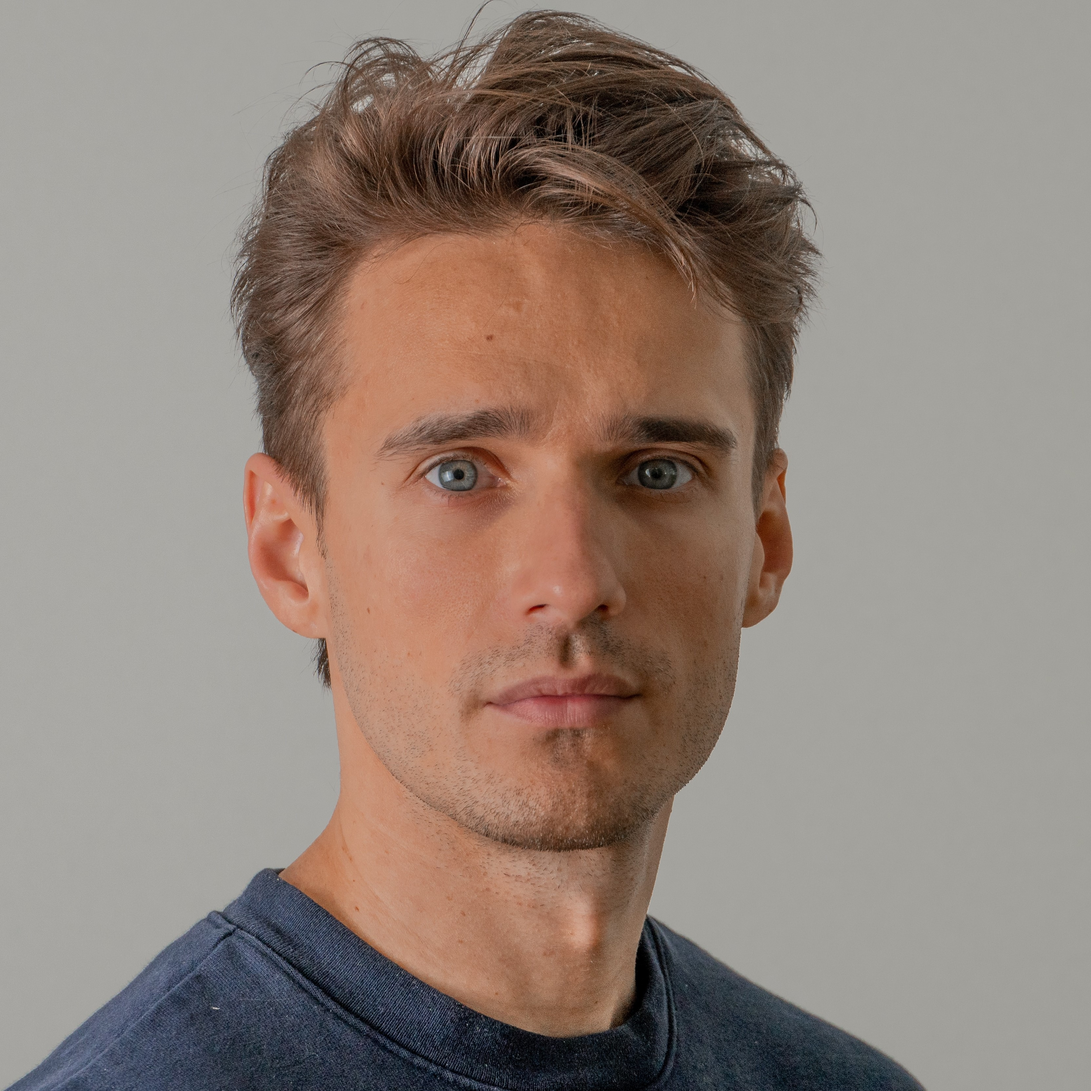
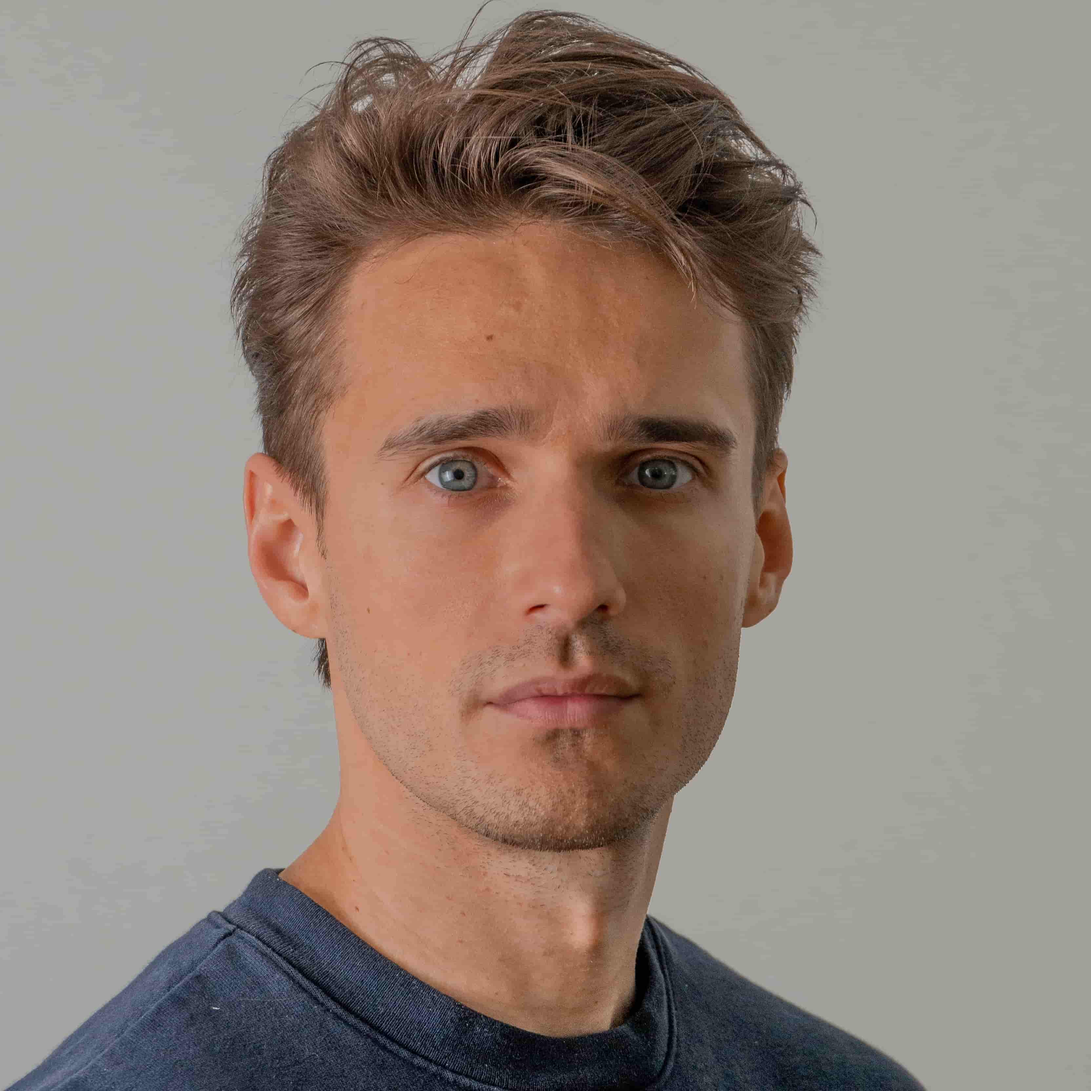
optimized images and add responsiveness

diff --git a/src/components/Header.jsx b/src/components/Header.jsx
@@ -2,14 +2,44 @@ import React from 'react';
 import '../styles/Header.scss';
 
 const Header = () => {
+  function showHideNavbar() {
+    const navLinksDisplay = document.getElementById('header__nav-links');
+    const iconMiddleLine = document.getElementById(
+      'header__hamburger-middle-line',
+    );
+    const iconTopLine = document.getElementById('header__hamburger-top-line');
+    const iconBottomLine = document.getElementById(
+      'header__hamburger-bottom-line',
+    );
+    if (navLinksDisplay.style.display === 'flex') {
+      navLinksDisplay.style.display = 'none';
+      iconMiddleLine.style.display = 'inline-block';
+      iconTopLine.classList.remove('header__icon-line-animate');
+      iconBottomLine.classList.remove('header__icon-bottom-line-animate');
+    } else {
+      navLinksDisplay.style.display = 'flex';
+      iconMiddleLine.style.display = 'none';
+      iconTopLine.classList.add('header__icon-line-animate');
+      iconBottomLine.classList.add('header__icon-bottom-line-animate');
+    }
+  }
+
   return (
     <div className="header sticky-top">
       <div className="container">
         <div className="d-md-flex justify-content-md-between align-item-center">
           <h1 className="header__logo" data-aos="zoom-in" data-aos-delay="0">
-            CompanyX
+            Meta solutions
           </h1>
-          <ul className="header__menu ">
+          {/* Haamburger Icon */}
+          <div className="header__hamburger-icon" onClick={showHideNavbar}>
+            <span id="header__hamburger-top-line"></span>
+            <span id="header__hamburger-middle-line"></span>
+            <span id="header__hamburger-bottom-line"></span>
+          </div>
+
+          {/* Menu Items  */}
+          <ul className="header__menu" id="header__nav-links">
             <li data-aos="fade-down" data-aos-delay="0">
               <a href="/">Home</a>
             </li>

diff --git a/src/components/Footer.jsx b/src/components/Footer.jsx
@@ -11,21 +11,23 @@ const Footer = () => {
       <div className="footer">
         <div className="container">
           <div className="row">
-            <div className="col-md-4">
+            {/* first column   */}
+            <div className="col-md-4 col-sm-6">
               <div className="footer__widget">
                 <h4>About Us</h4>
                 <p>
-                  Lorem ipsum dolor sit amet, consectetur adipisicing elit.
-                  Natus tenetur, nobis rerum quas.
+                  From concept to launch, we pride ourselves on delivering
+                  high-quality, reliable, and user-friendly solutions that
+                  exceed expectations.
                 </p>
                 <p>
-                  Lorem ipsum dolor sit amet, consectetur adipisicing elit.
-                  Quaerat et iusto facere a eligendi perferendis.
+                  Contact us today to learn more about how we can help take your
+                  business to the next level.
                 </p>
               </div>
             </div>
             {/* second column   */}
-            <div className="col-md-4">
+            <div className="col-md-4 col-sm-6">
               <div className="footer__widget">
                 <h4>Services</h4>
                 <ul>
@@ -45,11 +47,11 @@ const Footer = () => {
               </div>
             </div>
             {/* Third Column  */}
-            <div className="col-md-4">
+            <div className="col-md-4 col-sm-6">
               <div className="footer__widget">
                 <h4>Address</h4>
                 <address>
-                  <b>CompanyX</b>
+                  <b>Meta solutions</b>
                   <br />
                   249 Wrong Turn, Unknown <br />
                   Wakanda, 271580 <br />

diff --git a/src/styles/Header.scss b/src/styles/Header.scss
@@ -28,9 +28,88 @@
         padding: 0.9em 0.625em;
 
         &:hover {
+          transition: all ease-in-out 0.3s;
           background: rgba(44, 93, 159);
         }
       }
+    }
+  }
+
+  // Hamburger icon styling
+  &__hamburger-icon {
+    position: absolute;
+    top: 1em;
+    right: 5%;
+    width: 1.65em;
+    height: 1.2em;
+    display: none;
+    flex-direction: column;
+    justify-content: space-between;
+    align-items: center;
+    cursor: pointer;
+    z-index: 101;
+
+    span {
+      position: relative;
+      display: inline-block;
+      width: 100%;
+      height: 0.1em;
+      border-radius: 0.05em;
+      background: #ffffff;
+    }
+  }
+
+  &__icon-line-animate {
+    animation: rotateLine 0.5s linear forwards;
+  }
+
+  &__icon-bottom-line-animate {
+    animation: rotateBottomLine 0.5s linear forwards;
+  }
+
+  @keyframes rotateLine {
+    0% {
+      transform: rotate(0deg);
+      top: 50%;
+    }
+    100% {
+      transform: rotate(45deg);
+      top: 50%;
+    }
+  }
+
+  @keyframes rotateBottomLine {
+    0% {
+      transform: rotate(0deg);
+      bottom: 50%;
+    }
+    100% {
+      transform: rotate(-45deg);
+      bottom: 50%;
+    }
+  }
+
+  @media screen and (max-width: 768px) {
+    &__menu {
+      position: absolute;
+      top: 0;
+      right: 0;
+      width: 60vw;
+      height: 100vh;
+      display: flex;
+      flex-direction: column;
+      justify-content: center;
+      text-align: center;
+      background: #000000; /* fallback for old browsers */
+      background: linear-gradient(311deg, #12295c, #000000);
+    }
+
+    &__hamburger-icon {
+      display: flex;
+    }
+
+    #header__nav-links {
+      display: none;
     }
   }
 }

diff --git a/src/components/Services.jsx b/src/components/Services.jsx
@@ -37,15 +37,18 @@ const Services = () => {
     <>
       <div className="services section" id="services">
         <div className="container">
-          <div className="row">
+          <div className="row justify-content-center">
             <div className="col-md-12">
               <h2 className="services__heading section__heading">
-                Our <span data-aos="fade-down">Services</span>
+                Our{' '}
+                <span data-aos="fade-down" data-aos-delay="200">
+                  Services
+                </span>
               </h2>
             </div>
             {serviceCards.map((card) => (
               <div
-                className="col-md-4"
+                className="col-sm-6 col-md-4"
                 key={card.title}
                 data-aos="fade-up"
                 data-aos-delay={card.animationDelay}

diff --git a/src/components/Hero.jsx b/src/components/Hero.jsx
@@ -9,11 +9,11 @@ const Hero = () => {
           <div className="row">
             <div className="col-md-8 col-lg-6">
               <div className="hero__text-content">
-                <h1 className="hero__title">Some Heading Goes Here</h1>
+                <h1 className="hero__title">Transform Your Digital World</h1>
                 <p className="lead">
-                  Lorem ipsum dolor sit, amet consectetur adipisicing elit.
-                  Error accusamus amet reprehenderit architecto neque iste
-                  libero recusandae dicta labore placeat.
+                  Our team of experts is dedicated to staying ahead of the curve
+                  and bringing you the latest in modern technology to help your
+                  business thrive.
                 </p>
               </div>
             </div>

diff --git a/src/components/News.jsx b/src/components/News.jsx
@@ -16,7 +16,7 @@ const News = () => {
   const news = [
     {
       image: meeting,
-      title: 'New report shows growth analytics of companyX',
+      title: 'New report shows growth analytics of meta solutions',
       date: 'Jan 28, 2020',
       details:
         ' Report shows dummy text here read more,Lorem, ipsum dolor sit amet consectet  adipisicing elit. ',
@@ -32,7 +32,7 @@ const News = () => {
     },
     {
       image: coderGuy,
-      title: 'Geeting more out of companyX app',
+      title: 'Geeting more out of meta solutions app',
       date: 'May 10, 2021',
       details:
         ' Lorem, ipsum dolor sit amet consectet  adipisicing elit. Amet laboriosam, fugiat quibusdam laborum possimus neque?',

diff --git a/src/components/Testimonial.jsx b/src/components/Testimonial.jsx
@@ -41,10 +41,14 @@ const Testimonial = () => {
                 data-aos-delay={testimonial.animationDelay}
                 data-aos-offset="200"
               >
+                <div className="testimonials__client-info">
+                  <img src={testimonial.image} alt="client image" />
+                  <div>
+                    <h4>{testimonial.name}</h4>
+                    <p>{testimonial.company}</p>
+                  </div>
+                </div>
                 <p>{testimonial.text}</p>
-                <img src={testimonial.image} alt="dp" />
-                <h4>{testimonial.name}</h4>
-                <p>{testimonial.company}</p>
               </div>
             ))}
           </div>

diff --git a/src/styles/Testimonials.scss b/src/styles/Testimonials.scss
@@ -25,7 +25,6 @@
   &__box {
     position: relative;
     z-index: 5;
-    background-color: #e7e7e7;
     color: #ffffff;
     border-radius: 0.3em;
     padding: 1em;
@@ -40,7 +39,20 @@
       width: 3.5em;
       height: 3.5em;
       border-radius: 50%;
+      margin-right: 1em;
       border: 3px solid #2d53a6;
+    }
+  }
+
+  &__client-info {
+    display: flex;
+    justify-content: flex-start;
+  }
+
+  @media screen and (max-width: 576px) {
+    &__box {
+      max-width: 95%;
+      margin: 0.5em 0;
     }
   }
 }

diff --git a/src/styles/News.scss b/src/styles/News.scss
@@ -3,8 +3,8 @@
   // background-color: #fff;
   &__card {
     img {
-      max-width: 100%;
-      height: 12em;
+      width: 100%;
+      height: auto;
       margin-bottom: 0.5em;
     }
   }
@@ -36,6 +36,16 @@
     font-size: 0.75em;
     span {
       margin-right: 0.2em;
+    }
+  }
+
+  &__text {
+    margin-bottom: 0.5em;
+  }
+
+  @media screen and (max-width: 768px) {
+    &__card {
+      margin-bottom: 1.5em;
     }
   }
 }

diff --git a/index.html b/index.html
@@ -4,7 +4,7 @@
     <meta charset="UTF-8" />
     <link rel="icon" type="image/svg+xml" href="/vite.svg" />
     <meta name="viewport" content="width=device-width, initial-scale=1.0" />
-    <title>companyX</title>
+    <title>Meta solutions</title>
     <!-- Bootstrap link  -->
     <link
       href="https://cdn.jsdelivr.net/npm/bootstrap@5.0.2/dist/css/bootstrap.min.css"

diff --git a/src/styles/Footer.scss b/src/styles/Footer.scss
@@ -41,4 +41,14 @@
       }
     }
   }
+
+  @media screen and (max-width: 768px) {
+    &__widget {
+      margin-bottom: 2.3em;
+
+      h4 {
+        margin-bottom: 0.8em;
+      }
+    }
+  }
 }

diff --git a/src/styles/Global.scss b/src/styles/Global.scss
@@ -8,7 +8,6 @@
     font-size: 2.3em;
     font-weight: 600;
     margin-bottom: 1.5em;
-    margin-bottom: 2em;
 
     span {
       //   background: -webkit-linear-gradient(#eee, #333);
